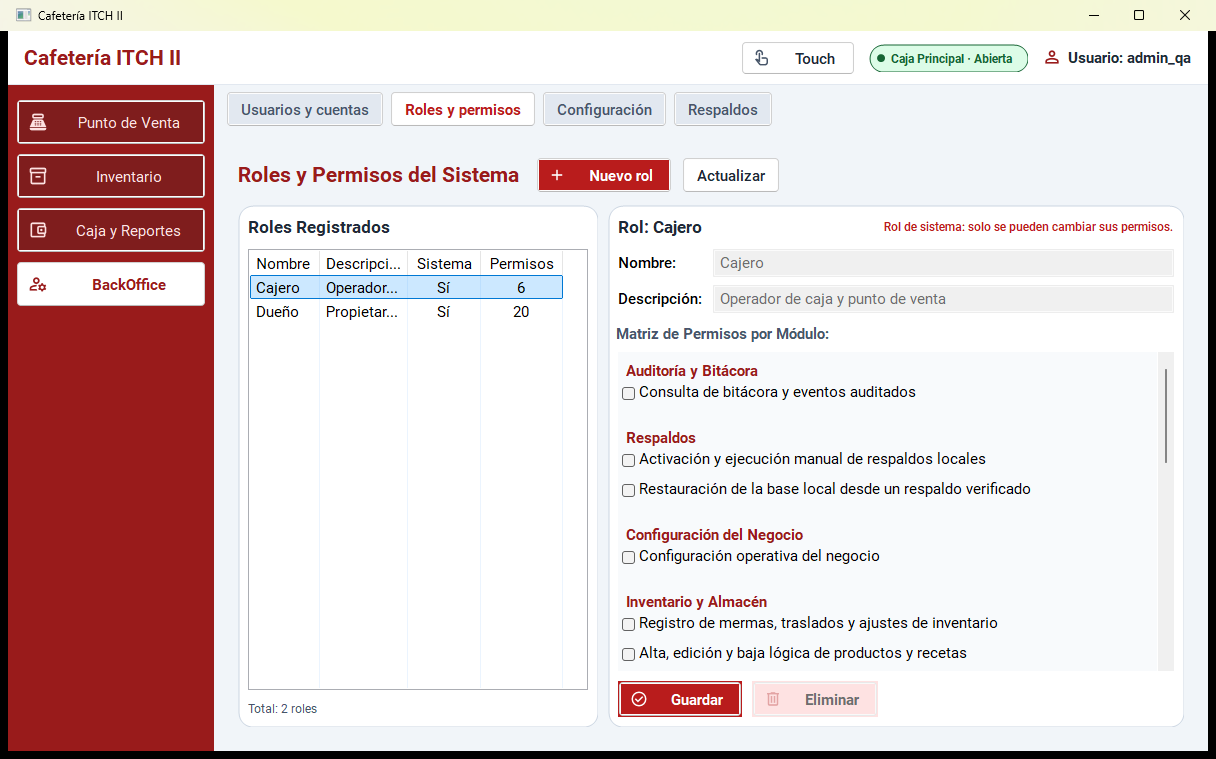
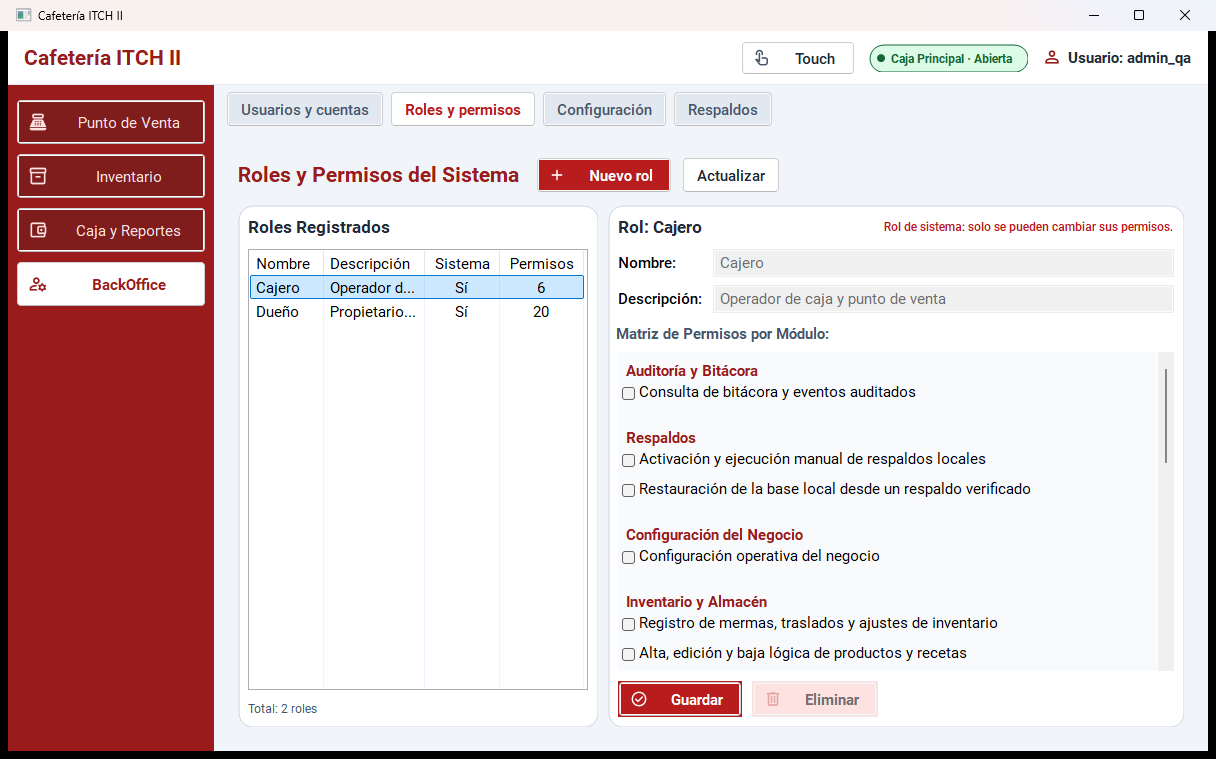
Auditoría de la ronda 3 (F2, B3a), capturas 09/10 y estado del orquestador

Changed region(s): [[0.1562, 0.0, 1.0, 0.0606], [0.25, 0.3333, 0.5, 0.4242]]

diff --git a/ORQUESTADOR.md b/ORQUESTADOR.md
@@ -2,18 +2,19 @@
 
 Solo para el orquestador. Los agentes trabajadores no necesitan este archivo: lo compartido está en `AGENTS.md` (Memoria operativa) y `coordinacion-agentes.md`. Leerlo al inicio de cada sesión en lugar de reconstruir el contexto. Actualizarlo al cerrar cada ronda.
 
-Última actualización: 2026-11-08.
+Última actualización: 2026-11-12.
 
 ## Estado
 
 - **Puertas:** I1 cerrada (revalidada con el ejecutable real tras integrar B1). I2: software cerrado; falta QA humano (0/7 en `frontend/qa-visual.md`), impresora térmica 55/80, monitor táctil y DPI 125/150/200. I3–I7 abiertas. **No iniciar I3 hasta el QA humano.**
-- **Pantallas reales:** Venta, Caja y turnos, Usuarios y cuentas, Configuración (impresión), Roles y permisos (F1/F1b). El resto de las 16 subsecciones son marcadores de posición.
+- **Pantallas reales:** Venta, Caja y turnos, Usuarios y cuentas, Configuración (impresión), Roles y permisos (F1/F1b), Bitácora (F2). El resto de las 16 subsecciones son marcadores de posición.
 - **Backend real nuevo:** respaldo seguro y restauración (B1, migración 008, `backup.restore` solo Dueño) y reportes diarios (B2, `payments_total` y `payments_mismatch_cents`).
 - **Estimación de release** (dada el 2026-10-19): piloto en 4–6 semanas y 1.0 en 8–12, si se resuelven la sección 9 de `specs.md` y los datos de la PC de caja e impresora.
 
 ## Ronda en curso
 
-Ronda 2 cerrada e integrada (`8644088`): B2 (reportes reales) y F1b (Cajero editable, columnas y casillas) aceptados. Listo para enviar: **F2** (Bitácora), ya escrito en `prompts-2026-11-08-ronda2.md`. Después: F3 (UI de Respaldos, B1 listo) y F4 (UI de Reportes, B2 listo). Backend sin bloque asignado: candidatos en «Pendientes conocidos». Worktree del backend en la rama `backend/b3`, partiendo de `main`.
+Ronda 3 cerrada e integrada el 2026-11-12 (`1bb0a4d`): **F2** (Bitácora, `1353162`) y **B3a** (panel de roles por regla de dos pasadas, `9ff0e9e`) aceptados; capturas 09/10 regeneradas. Worktree del backend en la rama `backend/b3b`, partiendo de `main`.
+Siguiente propuesto: **B3b** (Claude: utilidades compartidas de ajuste de columnas y campo centrado, aplicadas a Bitácora y Roles; tercera vez que falla en paneles distintos) y **F2b** (Gemini: resaltar la subsección activa; «Bitácora» no se marca). Pendientes de F2: Detalle a ~58 px con ~500 px libres, texto arriba en Usuario/Fechas (Estándar). Después F3 (UI Respaldos) y F4 (UI Reportes). Bloque grande de backend sin elegir (corte de turno I4 u otros pendientes técnicos).
 
 ## Decisiones del usuario
 
@@ -58,6 +59,6 @@ Ronda 2 cerrada e integrada (`8644088`): B2 (reportes reales) y F1b (Cajero edit
 
 ## Reanudar agentes
 
-- AntiGravity: `agy` (nueva) o `agy --conversation=<id>`; historial anterior en la conversación `36c58871-cb3f-45c6-88ad-07be0a8992e5`; más antiguas `c94b5e25-55b3-490a-b547-abad9fb453b1` y `4c6c3e44-1c0a-40a4-8124-59943158b872`.
-- Claude Code Terminal: abrir en `D:\Cafeteria_ITCH_backend` con el modelo `opusplan`.
+- AntiGravity (actual, ronda 3): `agy --conversation=5cb24680-56c1-4cd1-9621-72c8ef342fbd`. Anteriores: `36c58871-cb3f-45c6-88ad-07be0a8992e5`, `c94b5e25-55b3-490a-b547-abad9fb453b1`, `4c6c3e44-1c0a-40a4-8124-59943158b872`.
+- Claude Code Terminal (actual, ronda 3): `claude --resume CafeCH`, abierto en `D:\Cafeteria_ITCH_backend` con el modelo `opusplan`.
 - QA manual aislado: `.\build_release\app_desktop.exe --data-dir="D:\Cafeteria_QA_Manual"`.

diff --git a/auditoria-2026-10-18.md b/auditoria-2026-10-18.md
@@ -232,3 +232,18 @@ Observaciones:
 | Gemini, informe | Afirmación falsa de «sin recorte» | Coherente con las capturas, salvo detalles menores |
 
 Conclusión provisional: la mejora visible viene de la memoria operativa de `AGENTS.md`, los prompts acotados y las pruebas estrictas; no hay evidencia separable de ahorro por caveman con dos bloques de tamaño distinto.
+
+## Ronda 3 — B3a y F2 (auditado el 2026-11-12)
+
+**F2 (AntiGravity, Bitácora):** aceptado en `1353162`. Pendientes menores: columna Detalle a ~58 px con ~500 px libres, texto arriba en Usuario y fechas (Estándar), subsección «Bitácora» sin resaltar.
+
+**B3a (Claude Code Terminal, regla de dos pasadas):** aceptado en `9ff0e9e`, integrado en `1bb0a4d`.
+
+- Alcance: solo `src/frontend/backoffice_roles_panel.{cpp,hpp}` y `tests/test_f1_roles_panel.py`.
+- Panel: anchos calculados con la fuente real del encabezado (`ListView_GetHeader` + `WM_GETFONT`); Descripción toma el espacio restante; filas de 42 px en Touch con `wxImageList`; Nombre y Descripción centrados en contenedores de 48 px.
+- Prueba: ninguna aserción relajada. Encabezado medido con su fuente; holgura de columnas ≤ 8 px; glifo de casilla comparado por centros (≤ 3 px) en las 20 casillas y falla si no detecta glifo o tinta; persistencia del Cajero tras reabrir; fila ≥ 40 px y campos centrados (≤ 3 px) en Touch.
+- Primera ejecución del orquestador (2026-11-08): falló la aserción del glifo (`y=6 > 3`) porque comparaba bordes superiores; corregida por Claude a comparación de centros.
+- Verificación del orquestador en el worktree: build Release/Debug 0 advertencias, CTest 5/5 en ambos, `test_f1_roles_panel.py` exit 0 en Release y Debug. Medidas: Estándar N=74 D=101 S=75 P=84 (cliente 336, holgura 2); Touch N=76 D=124 S=78 P=86 (cliente 366, holgura 2); sin `WS_HSCROLL`.
+- Verificación integrada en `main`: build 0 advertencias, CTest 5/5 en Release y Debug, `test_i1_integration`, `test_f1_roles_panel`, `test_f2_audit_log`, `test_fe08_fe09_visual_integration` y `capture_visual_qa` exit 0. Capturas 09 y 10 regeneradas: encabezado «Descripción» completo.
+- No verificado: `test_i2_integration.py` no se repitió (B3a no toca venta ni caja). DPI 125/150/200 sin probar.
+- Observación cosmética (Touch): el campo deshabilitado se ve como un recuadro gris dentro del contenedor blanco con borde.
